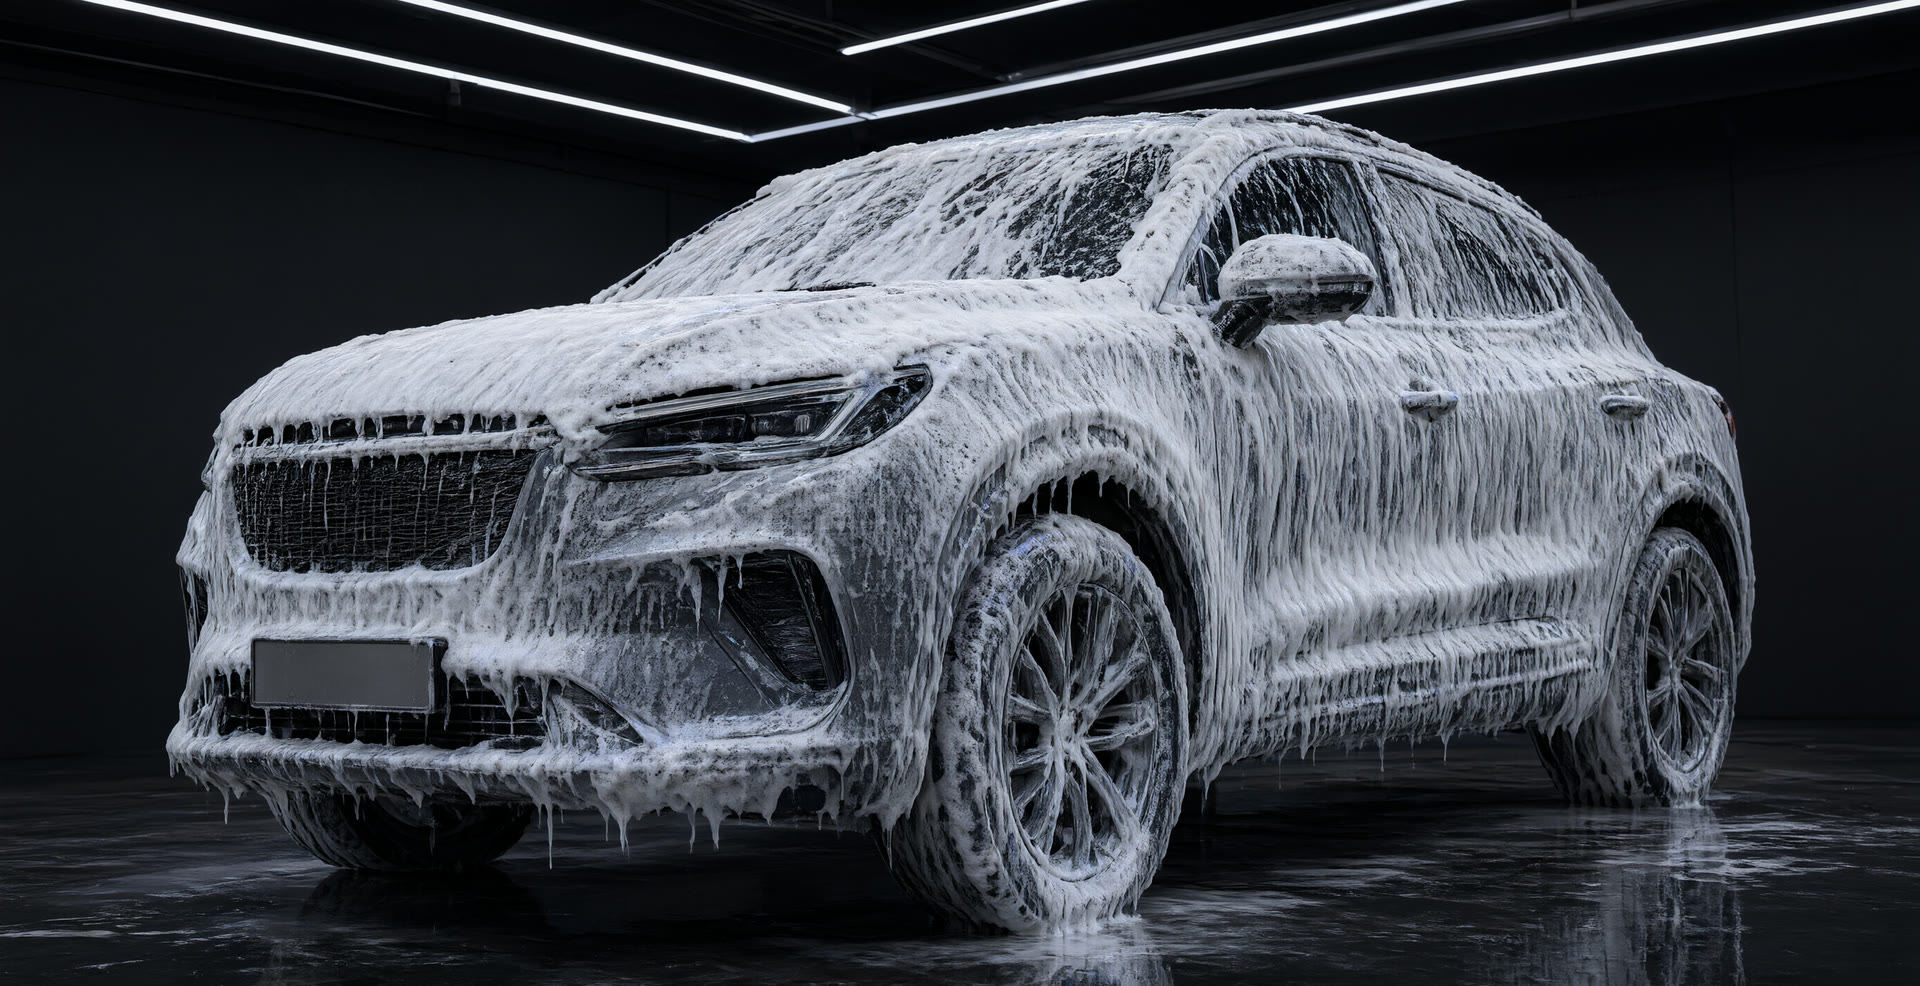
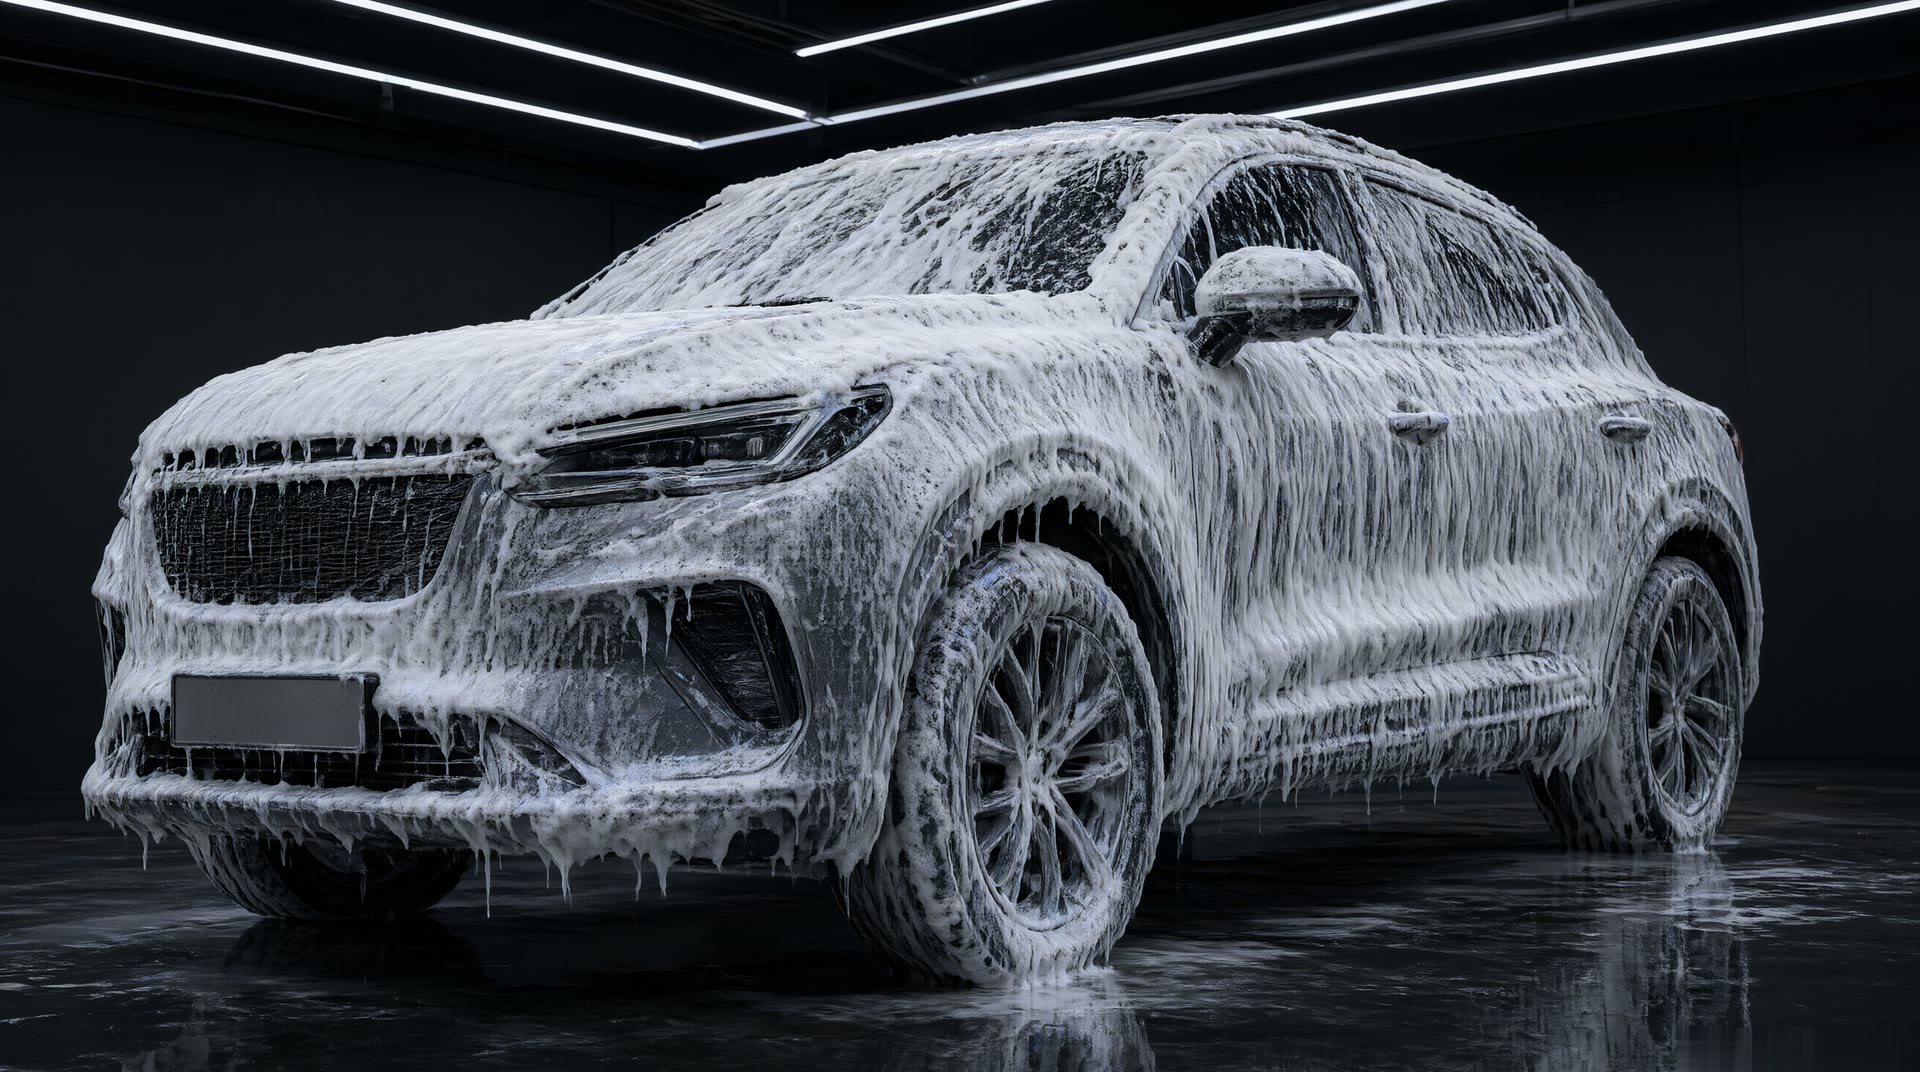
feat: voiture fixe, panneau Réserver vers le planning avec formule cochée

diff --git a/apps/detailing/front/src/pages/Accueil/HeroScenes.module.css b/apps/detailing/front/src/pages/Accueil/HeroScenes.module.css
@@ -8,13 +8,11 @@
 /* Images superposées : boue (fond), mousse (coule de haut en bas), propre (révélée par la barre), garage (fondu). */
 .images { position: absolute; inset: 0; z-index: -2; overflow: hidden; }
 .image { position: absolute; inset: 0; width: 100%; height: 100%; object-fit: cover; object-position: 45% 50%; display: block; }
-.boue { transform: scale(var(--depart, 1.06)); }
 /* La mousse descend avec un bord doux (masque, invisible en soi), comme si elle coulait sur la voiture. */
 .mousse { --bas: calc(var(--mousse, 0) * 1.15% - 15%);
   -webkit-mask-image: linear-gradient(to bottom, #000 var(--bas), transparent calc(var(--bas) + 15%));
   mask-image: linear-gradient(to bottom, #000 var(--bas), transparent calc(var(--bas) + 15%)); }
 .propre { position: absolute; inset: 0; overflow: hidden; clip-path: inset(0 calc(100% - var(--rincage, 0) * 1%) 0 0); }
-.propre .image { transform: scale(var(--zoom, 1)); transform-origin: 40% 55%; }
 .garage { opacity: var(--garage, 0); }
 /* Barre de lumière qui rince : trait blanc net, à peine diffus, visible seulement pendant le rinçage. */
 .barre { position: absolute; top: 0; bottom: 0; left: calc(var(--rincage, 0) * 1%); width: 4px; margin-left: -2px; background: #fff;
@@ -27,8 +25,9 @@
 /* Titres d'étape : très grands, capitales serrées, en haut à gauche. */
 .etape { position: absolute; left: clamp(.9rem, 2.2vw, 1.75rem); top: clamp(.9rem, 2.2vw, 1.75rem); margin: 0;
   font-size: clamp(1.7rem, 5.5vw, 3.4rem); font-weight: 900; font-style: italic; line-height: .92; letter-spacing: -.03em; text-transform: uppercase;
-  text-shadow: 0 4px 24px rgb(0 0 0 / .55); opacity: 0; transform: translateY(-16px); transition: opacity .45s ease, transform .45s cubic-bezier(.2, .7, .2, 1); }
-.etapeVisible { opacity: 1; transform: none; }
+  text-shadow: 0 4px 24px rgb(0 0 0 / .55); opacity: 0; transform: translateY(-16px); transition: opacity .15s ease, transform .15s ease; }
+/* Le titre suivant n'apparaît qu'une fois le précédent effacé : jamais deux titres l'un sur l'autre. */
+.etapeVisible { opacity: 1; transform: none; transition: opacity .4s ease .18s, transform .4s cubic-bezier(.2, .7, .2, 1) .18s; }
 
 /* Fine barre d'avancement en bas de l'écran. */
 .progression { position: absolute; left: 0; right: 0; bottom: 0; height: 3px; background: rgb(255 255 255 / .12); }
@@ -47,7 +46,8 @@
 .final .texte > :nth-child(4) { transition-delay: .45s; }
 .final .texte > :nth-child(5) { transition-delay: .6s; }
 
-.surtitre { margin: 0; text-transform: uppercase; letter-spacing: .14em; font-size: .75rem; font-weight: 800; color: #8cc2f2; }
+/* Surtitre sur une seule ligne, même s'il dépasse la largeur du bloc (plus petit sur téléphone pour tenir à l'écran). */
+.surtitre { margin: 0; white-space: nowrap; text-transform: uppercase; letter-spacing: .1em; font-size: clamp(.56rem, 2.3vw, .75rem); font-weight: 800; color: #8cc2f2; }
 .titre { margin: .45rem 0 0; font-size: clamp(1.55rem, 3.4vw, 2.4rem); line-height: 1.05; letter-spacing: -.02em; }
 .final .texte > .titre { transition: none; }
 .titre .mot { display: inline-block; opacity: 0; transform: translateY(-.4em); transition: opacity .5s ease, transform .5s cubic-bezier(.2, .7, .2, 1); }
@@ -62,6 +62,28 @@
 /* Téléphone : sans les points forts, pour garder la voiture visible. */
 /* Points forts masqués ici (ils restent plus bas sur la page) : la voiture reste dégagée. */
 .points { display: none; }
+
+/* Panneau « Réserver » à droite (grand écran seulement) : catégories, puis formules qui mènent au planning. */
+.panneau { display: none; }
+@media (min-width: 900px) {
+  .panneau { position: absolute; top: clamp(.9rem, 2.2vw, 1.75rem); right: clamp(.9rem, 2.2vw, 1.75rem); width: 320px; display: grid; gap: .6rem;
+    padding: 1rem; border-radius: 16px; background: rgb(8 13 22 / .78); border: 1px solid rgb(255 255 255 / .14); box-shadow: 0 18px 44px rgb(0 0 0 / .45);
+    opacity: 0; transform: translateX(24px); pointer-events: none; transition: opacity .55s ease .35s, transform .55s cubic-bezier(.2, .7, .2, 1) .35s; }
+  .final .panneau { opacity: 1; transform: none; pointer-events: auto; }
+}
+.panneauTitre { margin: 0; font-weight: 900; font-size: .95rem; text-transform: uppercase; letter-spacing: .05em; }
+.categories { display: flex; flex-wrap: wrap; gap: .35rem; }
+.categorie { min-height: 34px; padding: 0 .75rem; border-radius: 999px; border: 1px solid rgb(255 255 255 / .22); background: transparent; color: #fff;
+  font: inherit; font-size: .8rem; font-weight: 700; cursor: pointer; }
+.categorie[aria-pressed='true'] { background: #fff; color: #0b1320; border-color: #fff; }
+.categorie:focus-visible, .formule:focus-visible { outline: 3px solid #8cc2f2; outline-offset: 2px; }
+.formules { list-style: none; margin: 0; padding: 0; display: grid; gap: .35rem; }
+.formule { display: flex; justify-content: space-between; align-items: center; gap: .8rem; min-height: 44px; padding: 0 .8rem; border-radius: 10px;
+  color: #fff; text-decoration: none; font-weight: 600; font-size: .9rem; background: rgb(255 255 255 / .06); border: 1px solid rgb(255 255 255 / .12); }
+.formule:hover { border-color: #8cc2f2; background: rgb(140 194 242 / .14); }
+.prix { color: #8cc2f2; font-weight: 800; white-space: nowrap; }
+.panneauAide { margin: 0; font-size: .75rem; color: #b9c7d8; }
+.simple .panneau { opacity: 1; transform: none; pointer-events: auto; transition: none; }
 
 /* Version simple (« moins d'animations ») : une hauteur d'écran, dernière image, tout affiché. */
 .simple { height: auto; }

diff --git a/apps/detailing/front/src/pages/Accueil/HeroScenes.tsx b/apps/detailing/front/src/pages/Accueil/HeroScenes.tsx
@@ -2,6 +2,8 @@ import { Fragment, useEffect, useRef, useState, type CSSProperties } from 'react
 import { Link } from 'react-router-dom';
 import { IconeTelephone } from '../../components/Telephone/Telephone';
 import { lienTel } from '../../components/Telephone/numeroTelephone';
+import { formatEuros } from '@bsandoz/ui';
+import { CATEGORIES, estCombinee, prixMin, type Formule } from '../../data/demo';
 import { HERO_SCENES } from '../../data/heroScenes';
 import styles from './HeroScenes.module.css';
 
@@ -16,8 +18,8 @@ const moinsDAnimations = () => typeof window !== 'undefined' && window.matchMedi
  * Réglages (images, moments, titres) : data/heroScenes.ts. « Moins d'animations » ou mode modification : directement la
  * fin, sans section épinglée.
  */
-export function HeroScenes({ surtitre, titre, introduction, points, telephone, statique = false }: {
-  surtitre: string; titre: string; introduction: string; points: string[]; telephone?: string; statique?: boolean;
+export function HeroScenes({ surtitre, titre, introduction, points, telephone, formules = [], statique = false }: {
+  surtitre: string; titre: string; introduction: string; points: string[]; telephone?: string; formules?: Formule[]; statique?: boolean;
 }) {
   const section = useRef<HTMLElement>(null);
   const [fixe] = useState(moinsDAnimations);
@@ -36,10 +38,8 @@ export function HeroScenes({ surtitre, titre, introduction, points, telephone, s
       const p = hauteur > 0 ? Math.min(1, Math.max(0, -el.getBoundingClientRect().top / hauteur)) : 1;
       const valeurs: Record<string, number> = {
         '--avance': p,
-        '--depart': 1.06 - 0.06 * entre(p, [0, moments.mousse[1]]),
         '--mousse': entre(p, moments.mousse) * 100,
         '--rincage': entre(p, moments.rincage) * 100,
-        '--zoom': 1 + 0.14 * entre(p, moments.zoom),
         '--garage': entre(p, moments.garage),
       };
       for (const [cle, v] of Object.entries(valeurs)) el.style.setProperty(cle, String(Math.round(v * 1000) / 1000));
@@ -105,6 +105,14 @@ export function HeroScenes({ surtitre, titre, introduction, points, telephone, s
     return () => { window.clearTimeout(attente); arreter(); window.history.scrollRestoration = restauration; };
   }, [simple]);
 
+  // Panneau « Réserver » (grand écran) : une catégorie choisie, ses formules ; chacune mène directement au planning de
+  // la réservation, formule déjà cochée.
+  const categories = CATEGORIES.filter((c) => formules.some((f) => f.category === c.value));
+  const [categorie, setCategorie] = useState<string>();
+  const categorieActive = categorie ?? categories[0]?.value;
+  const formulesCategorie = formules.filter((f) => f.category === categorieActive);
+  const lien = (f: Formule) => `/reserver?formule=${encodeURIComponent(f.id)}${estCombinee(f) ? '' : '&etape=creneau'}`;
+
   const { images } = HERO_SCENES;
   const fin = final || simple;
   return (
@@ -149,6 +157,30 @@ export function HeroScenes({ surtitre, titre, introduction, points, telephone, s
             {points.length > 0 && <ul className={styles.points}>{points.map((a) => <li key={a}>{a}</li>)}</ul>}
           </div>
         </div>
+
+        {categories.length > 0 && (
+          <aside className={styles.panneau} aria-label="Réserver votre lavage">
+            <p className={styles.panneauTitre}>Réserver votre lavage</p>
+            <div className={styles.categories} role="group" aria-label="Catégorie">
+              {categories.map((c) => (
+                <button key={c.value} type="button" className={styles.categorie} aria-pressed={c.value === categorieActive} onClick={() => setCategorie(c.value)}>
+                  {c.label.replace(/^Nettoyage /, '').replace(/^./, (l) => l.toUpperCase())}
+                </button>
+              ))}
+            </div>
+            <ul className={styles.formules}>
+              {formulesCategorie.map((f) => (
+                <li key={f.id}>
+                  <Link to={lien(f)} className={styles.formule}>
+                    <span>{f.name}</span>
+                    <span className={styles.prix}>{estCombinee(f) ? 'dès ' : ''}{formatEuros(prixMin(f, formules))}</span>
+                  </Link>
+                </li>
+              ))}
+            </ul>
+            <p className={styles.panneauAide}>Choisissez une formule : vous arrivez directement au choix du créneau.</p>
+          </aside>
+        )}
       </div>
     </section>
   );

diff --git a/apps/detailing/front/src/data/heroScenes.ts b/apps/detailing/front/src/data/heroScenes.ts
@@ -1,7 +1,7 @@
 /**
  * Haut de l'accueil piloté par le défilement, en images (créées par IA) : voiture boueuse → la mousse coule dessus →
- * une barre de lumière la rince de gauche à droite → on se rapproche de la voiture propre → porte du garage, lumière
- * dorée, puis le texte et le panneau « Réserver ».
+ * une barre de lumière la rince de gauche à droite → porte du garage, lumière dorée, puis le texte et le panneau
+ * « Réserver ». Les 4 images sont recadrées pour que la voiture soit au même endroit, à la même taille : elle ne bouge pas.
  *
  * Chaque moment est une part du défilement (de 0 à 1). Pour changer une image : remplacer le fichier (même nom).
  */
@@ -15,17 +15,15 @@ export const HERO_SCENES = {
   /** Hauteur de défilement de la scène, en hauteurs d'écran (plus grand : tout avance plus lentement). */
   ecrans: 5,
   moments: {
-    mousse: [0.08, 0.3],
-    rincage: [0.36, 0.6],
-    zoom: [0.6, 0.76],
-    garage: [0.76, 0.86],
+    mousse: [0.08, 0.35],
+    rincage: [0.42, 0.7],
+    garage: [0.74, 0.84],
   },
   /** Titres affichés en grand pendant certaines parties du défilement. */
   etapes: [
     { de: 0, a: 0.08, texte: 'Avant.' },
-    { de: 0.12, a: 0.32, texte: 'On applique\nla mousse.' },
-    { de: 0.38, a: 0.58, texte: 'On rince.' },
-    { de: 0.62, a: 0.76, texte: 'Regardez\nde plus près.' },
+    { de: 0.12, a: 0.37, texte: 'On applique\nla mousse.' },
+    { de: 0.42, a: 0.7, texte: 'On rince.' },
   ],
   /** Part du défilement à partir de laquelle le texte de l'accueil et le panneau « Réserver » arrivent. */
   final: 0.86,
@@ -34,8 +32,8 @@ export const HERO_SCENES = {
    * Environ 6 s en tout, d'un seul mouvement fluide.
    */
   lecture: [
-    // boue, mousse qui coule, rinçage, rapprochement, garage puis texte.
-    [0, 0], [0.6, 0.05], [2, 0.3], [3.6, 0.6], [4.7, 0.78], [5.9, 0.9],
+    // boue, mousse qui coule, rinçage, garage puis texte.
+    [0, 0], [0.6, 0.05], [2.3, 0.36], [4.1, 0.7], [5.9, 0.9],
   ] as ReadonlyArray<readonly [number, number]>,
   /** Attente avant le départ, le temps que la première image s'affiche (millisecondes). */
   attenteMs: 300,

diff --git a/apps/detailing/front/src/pages/Reserver/Reserver.test.tsx b/apps/detailing/front/src/pages/Reserver/Reserver.test.tsx
@@ -66,6 +66,13 @@ describe('Parcours de réservation', () => {
     expect((await screen.findAllByText(/10,00/)).length).toBeGreaterThan(0);
   });
 
+  it('venue du panneau « Réserver » de l’accueil : formule cochée, directement au créneau', async () => {
+    render(<MemoryRouter initialEntries={['/reserver?formule=ext-signature&etape=creneau']}><Reserver /></MemoryRouter>);
+    expect(await screen.findByRole('button', { name: 'Modifier : Que faut-il nettoyer ?' })).toBeInTheDocument();
+    expect(screen.getByRole('heading', { name: 'Où et quand ?' }).closest('section')).toHaveAttribute('aria-current', 'step');
+    expect(screen.getByText(/Extérieur Signature/)).toBeInTheDocument();
+  });
+
   it('passe tout seul à « Où et quand ? » quand la formule n’a pas d’option à proposer', async () => {
     render(<MemoryRouter><Reserver /></MemoryRouter>);
     await userEvent.click(screen.getByRole('radio', { name: 'Soins à la carte' }));

diff --git a/apps/detailing/front/src/pages/Accueil/Accueil.tsx b/apps/detailing/front/src/pages/Accueil/Accueil.tsx
@@ -100,7 +100,7 @@ export function Accueil() {
       {/* Façon « reel », piloté par le défilement : boue, mousse, rinçage, zoom, garage ; titres par étape, puis le texte
           et les boutons, en haut à gauche. Joué aussi pour le pro connecté (crayons en haut de la section). */}
       <HeroScenes surtitre={accueil.surtitre} titre={accueil.titre} introduction={accueil.introduction}
-        points={accueil.arguments} telephone={telephone || undefined} />
+        points={accueil.arguments} telephone={telephone || undefined} formules={formules} />
       </Zone>
 
       <section id="prestations" className={`container ${styles.section}`} aria-labelledby="titre-prestations">

diff --git a/apps/detailing/front/src/pages/Reserver/Reserver.tsx b/apps/detailing/front/src/pages/Reserver/Reserver.tsx
@@ -142,7 +142,11 @@ export function Reserver() {
       setOptions(c.options);
       setProduits(c.produits);
       const f = c.formules.find((x) => x.id === choisie);
-      if (f) { setCategory(f.category as Category); setFormuleId(f.id); setChoixComposantes({}); }
+      if (f) {
+        setCategory(f.category as Category); setFormuleId(f.id); setChoixComposantes({});
+        // Venue du panneau « Réserver » de l'accueil : formule simple déjà choisie, on passe directement au créneau.
+        if (params.get('etape') === 'creneau' && !estCombinee(f)) setStep(1);
+      }
     }).catch((e: Error) => setError(e.message));
   }, [params]);
   useEffect(() => {

diff --git a/docs/demandes.md b/docs/demandes.md
@@ -51,6 +51,8 @@ Légende : ✅ fait et en ligne après déploiement · 🔧 en cours · ⏳ à f
 - ✅ Mouvement dès l'arrivée sur l'accueil, sobre : titre révélé mot par mot, photo en lent zoom arrière puis respiration très lente, points forts un à un, une seule impulsion sur « Réserver un créneau » ; tout reste immobile si « moins d'animations » est demandé.
 - ✅ Site installable sur le téléphone comme une application : « Installer l'application » dans le menu ☰, visible seulement avec le compte pro. L'application installée s'ouvre directement sur l'Espace pro (connexion si besoin). Sur Android, la fenêtre d'installation du navigateur s'ouvre ; sur iPhone, une fenêtre explique les deux gestes (Partager, puis « Sur l'écran d'accueil »). Le bouton disparaît une fois le site installé. Raccourcis sur l'icône (appui long) : Espace pro, Site public, Réserver.
 - ✅ Deux vidéos de présentation pour le site, sans jargon ni son, en 1080p horizontal : clients de Perfect Clean (31 s : formules, réservation, créneaux, fidélité) et artisans (43 s : journée, itinéraire, planning, encaissement et QR code, factures, site modifiable). Fichiers remis à part, non versionnés (14 et 19 Mo).
+- ✅ La voiture ne bouge plus : les 4 images sont recadrées pour qu'elle soit au même endroit et à la même taille, sans rapprochement ; seuls la boue, la mousse, le rinçage et le fond changent. Logo « Qwen » comblé à partir des pixels voisins. Surtitre bleu sur une seule ligne.
+- ✅ Panneau « Réserver votre lavage » à droite (grand écran) : catégories, puis formules ; une formule mène directement au planning de la réservation, déjà cochée (formule complète : au choix des formules intérieur et extérieur). Avant, une catégorie à plusieurs formules ouvrait la réservation sans rien cocher.
 - ✅ Lecture automatique ramenée à 6 s environ ; titres et texte final serrés dans le coin en haut à gauche, plus petits (points forts retirés de cette zone) : la voiture reste dégagée.
 - ✅ Haut de l'accueil épuré : lecture automatique en 4 s environ, d'un seul mouvement fluide ; titres d'étape et texte final en haut à gauche, voile léger pour laisser la voiture visible ; panneau « Réserver votre lavage » retiré (restent les boutons « Réserver un créneau » et téléphone sous le texte, et « Réserver » dans l'en-tête).
 - ✅ Le scénario se joue aussi quand le pro est connecté (avant : l'image finale s'affichait directement en mode modification).

diff --git a/docs/CHANGELOG.md b/docs/CHANGELOG.md
@@ -205,6 +205,7 @@
 - Accueil : lecture automatique du scénario à l'arrivée (~15 s, pauses sur chaque image), arrêtée au moindre geste ; remonter le rejoue à l'envers.
 - Accueil : scénario automatique en ~4 s d'un seul mouvement, textes en haut à gauche, voile léger, panneau Réserver retiré (boutons sous le texte).
 - Accueil : scénario en 6 s, textes dans le coin en haut à gauche, plus compacts.
+- Accueil : voiture fixe (images recadrées au même endroit, sans zoom), surtitre sur une ligne, titres sans chevauchement, panneau Réserver à droite menant au planning avec la formule cochée (?formule=…&etape=creneau).
 
 ### Corrigé
 - Kit front : vocabulaire métier retiré des blocs et de leurs tests (`ChoiceChips`, `PriceSummary`, `Stepper`), conformément à la règle « aucun métier dans packages/ ».
